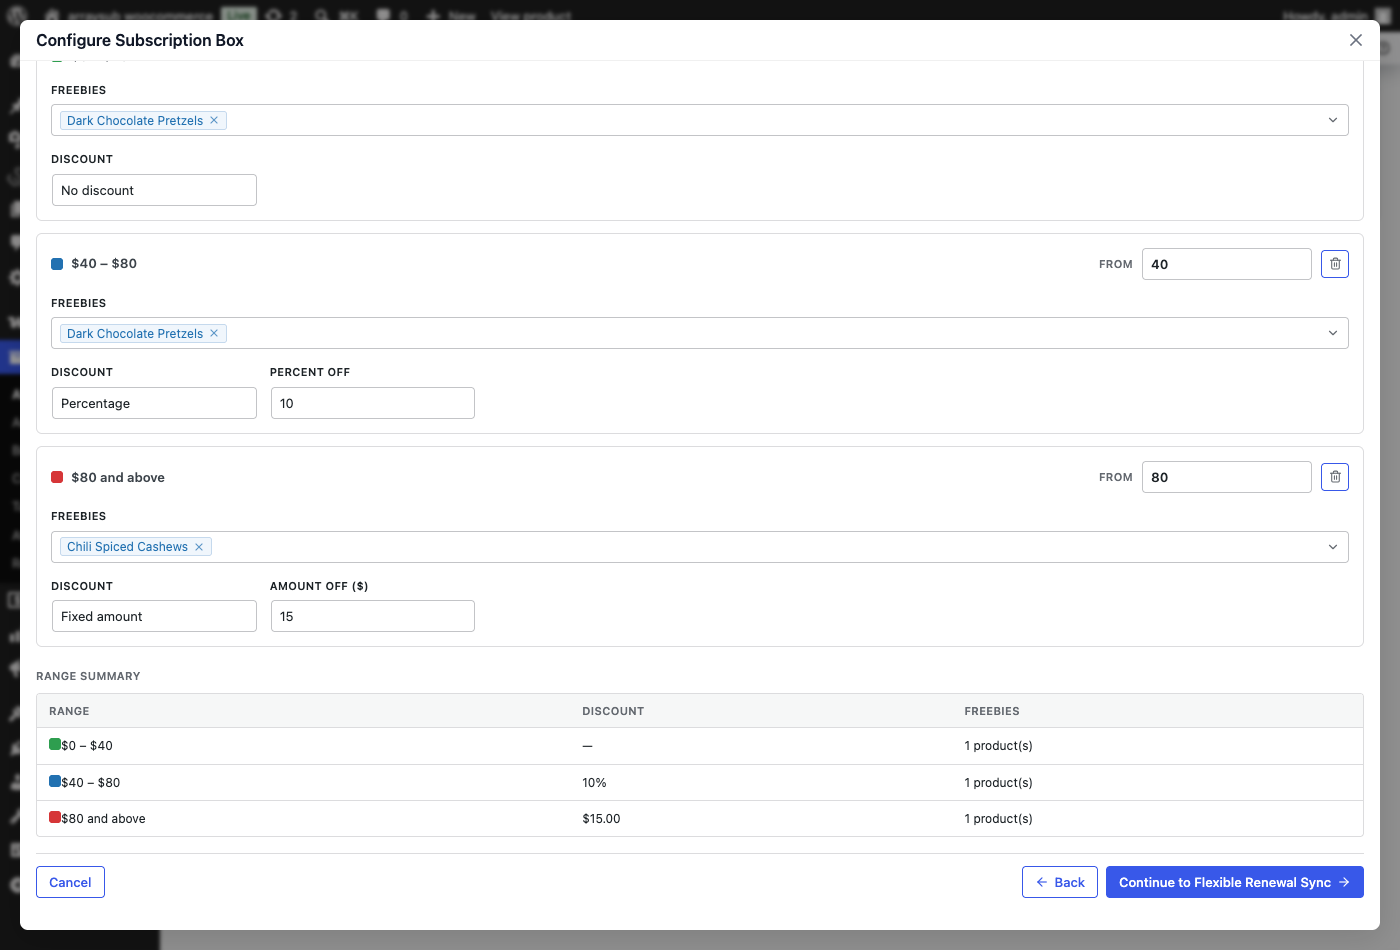
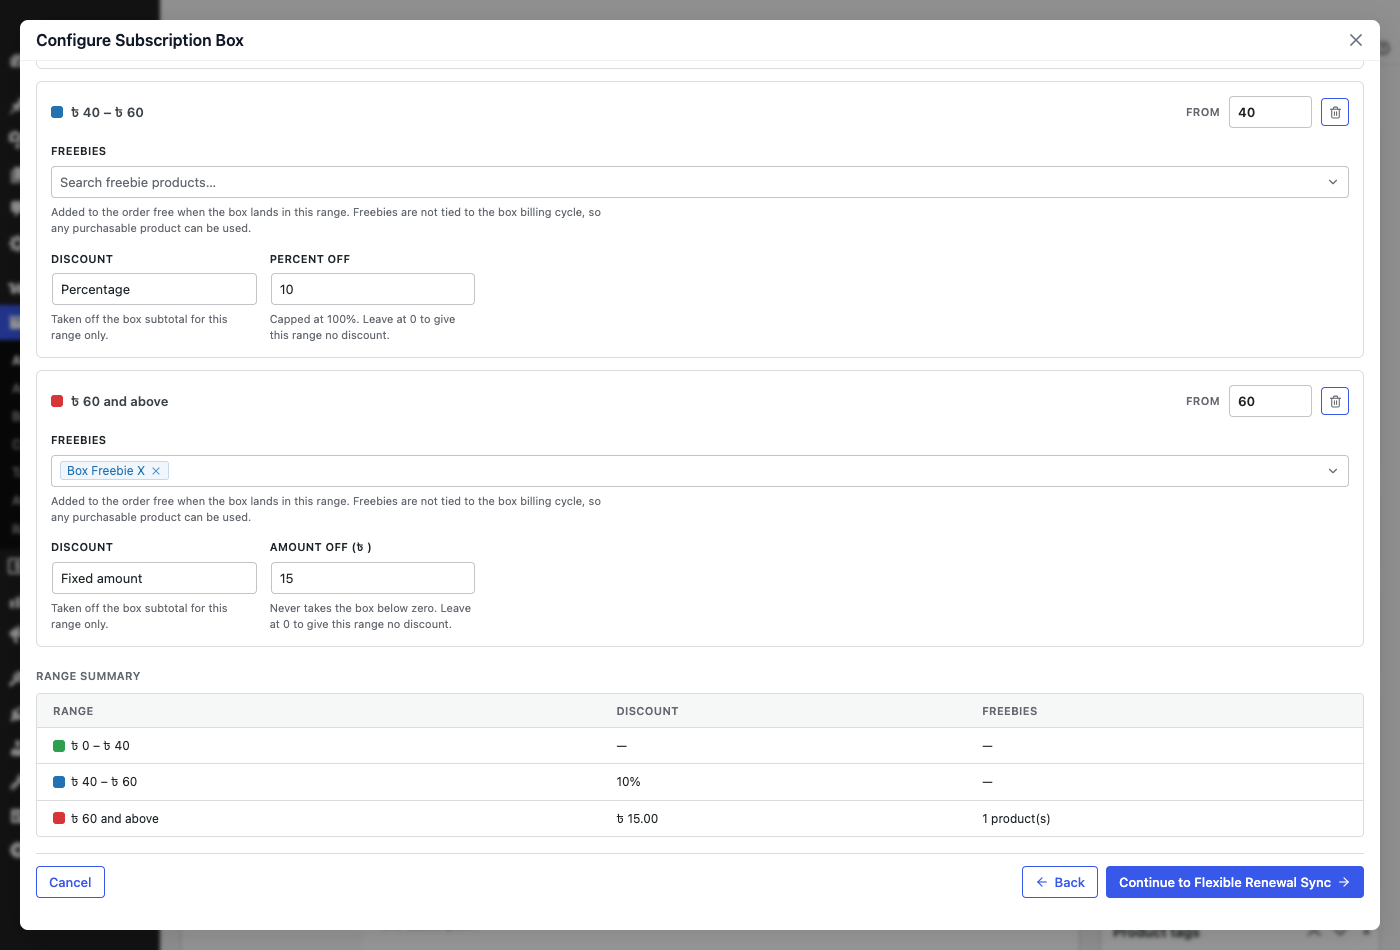
//

diff --git a/kanban/tasks/109-subscription-products-subscription-box-md-reshoot.md b/kanban/tasks/109-subscription-products-subscription-box-md-reshoot.md
@@ -1,0 +1,57 @@
+---
+id: 109
+title: subscription-products - subscription-box.md reshoot 11
+status: done
+priority: high
+created: 2026-07-27T16:00:47.807091+06:00
+updated: 2026-07-27T16:13:14.346674+06:00
+started: 2026-07-27T16:13:14.346673+06:00
+completed: 2026-07-27T16:13:14.346673+06:00
+claimed_by: agent-name
+claimed_at: 2026-07-27T16:13:14.346674+06:00
+class: standard
+---
+
+Source: `markdowns/subscription-products/subscription-box.md`
+
+Reshoot only. `11-discounts-basis-and-tiers` is stale: the Discounts & Freebies wizard screen gained a section heading + description, a blue "How ranges are matched" info panel with 4 bullets, a required "Max amount to configure" / "Max items to configure" number field between Ranges Based On and Add Range Point, and helper text under Add Range Point counting placed points.
+
+Scope grew by one shot: `12-discount-range-list` frames the lower half of the same modal screen and was captured in the same session as the old `11`, sharing its `$0 / $40 / $80 / $120` configuration. Reshooting `11` alone would have left the two images disagreeing on currency and tier values on the same doc page, so both were recaptured from one consistent state. `12` also picks up the new per-field helper text under Freebies, Discount, Percent Off, and Amount Off.
+
+1. `11-discounts-basis-and-tiers`
+Placement: after `### Step 2: Discounts & Freebies`
+Surface to cover: WordPress Admin -> Products -> edit a Subscription Box product -> General tab -> Edit Box Configuration -> wizard screen 2, upper half — section heading, the "How ranges are matched" info panel, the three controls (Ranges Based On / Max amount to configure / Add Range Point) with their helper text, and the multi-point range slider.
+context: Box product 562 ("test subs box") at /wp-admin/post.php?post=562&action=edit. Modal open on screen 2, scrolled to top. Basis is Total Value, maximum is 100, and two range points sit at 40 and 60 — deliberately the same worked example the surrounding prose and the info panel bullet both use, so image and text reinforce each other. The first range card (`৳ 0 – ৳ 40`, No discount) is visible at the bottom edge. WP admin bar hidden via injected CSS.
+Markers:
+- `arrow pointing to the blue panel headed "How ranges are matched", label 'How ranges work'`
+- `arrow pointing to the "MAX AMOUNT TO CONFIGURE" input containing 100, label 'Picker scale, not a cap'`
+- `arrow pointing to the "RANGES BASED ON" select showing Total Value, label 'Value or count'`
+- `arrow pointing to the coloured range slider bar with the ৳40 and ৳60 handles, label 'Tier boundaries'`
+
+2. `12-discount-range-list`
+Placement: after `### Range List and Summary`
+Surface to cover: Same modal screen 2, lower half — the per-range cards with Freebies / Discount / amount fields, and the Range Summary table.
+context: Same modal session and configuration as shot 11, scrolled to the bottom of the modal body. Shows the `৳ 40 – ৳ 60` card (Percentage, 10) and the `৳ 60 and above` card (freebie "Box Freebie X", Fixed amount, 15), each with the helper text under Freebies, Discount, Percent Off and Amount Off, followed by the three-row Range Summary table.
+Markers:
+- `arrow pointing to the range card headed "৳ 60 and above", label 'Open-ended last tier'`
+- `arrow pointing to the RANGE SUMMARY table, label 'All tiers at a glance'`
+
+---
+
+Capture completed (agent agent-name):
+- Recaptured and verified both originals under `markdowns/subscription-products/subscription-box.ASSETS/` at 1400x950, matching the dimensions of the shots they replace:
+  - `11-discounts-basis-and-tiers-original.png` (modal screen 2, scrolled to top).
+  - `12-discount-range-list-original.png` (same modal session, scrolled to bottom).
+- Captured with `agent-browser` at viewport 1400x950 on the local WordPress site with the Pro dev license active. WP admin bar hidden via injected CSS for clean framing.
+- Target state was set in the modal's in-memory working copy only (basis Total Value, maximum 100, points 40 and 60, ranges None / 10% / ৳15 + freebie), then the modal was closed with **Cancel**. Nothing was saved: box 562 still holds the owner's live configuration (max 200, points 30 and 146, ৳50 fixed), verified against the database after the shoot.
+- Values were chosen to mirror the worked example already used in the prose and in the new "How ranges are matched" info panel ("points at 40 and 60", "picker covers up to 100"), so image and text reinforce each other.
+- Doc-fix permission for this run: **yes**. No mismatch found — `subscription-box.md` was authored against this same build and every element it describes was present on screen, so no `.md` edit was needed.
+
+---
+
+Annotation completed (agent agent-name):
+- Deleted the stale `11-discounts-basis-and-tiers-annotated.png` and `12-discount-range-list-annotated.png` before regenerating, so both were marked from the clean originals.
+- Generated both annotated PNGs with `screenshot-marker/annotate.py` using `--color "#873EFF" --crop --steps=3`. All queries resolved, 0 unresolved, exit 0 on both runs.
+- Sparse query sets: `11` used 3 (How ranges work / Picker scale / Tier boundaries) — the "Ranges Based On" select was deliberately left unmarked because the table directly above the image already explains it; `12` used 2 (Open-ended last tier / All tiers at a glance).
+- No markdown edit required: the two `![...]()` embeds already sit at their Placement anchors in `markdowns/subscription-products/subscription-box.md` (line 297 under `### Step 2: Discounts & Freebies`, line 332 under `### Range List and Summary`) and point at the annotated filenames. All 14 image links on the page resolve.
+- `npm run build` regenerated dist (115 pages); both new annotated images are present in `dist/subscription-products/subscription-box.ASSETS/`.
